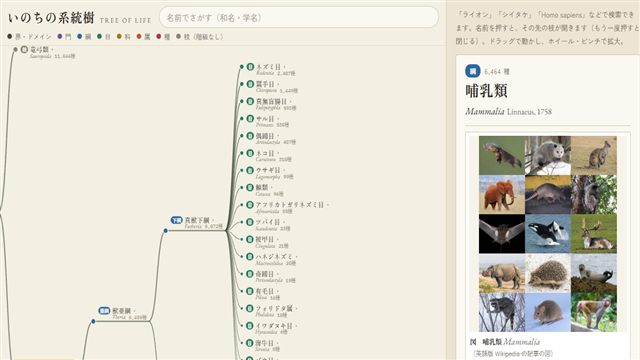
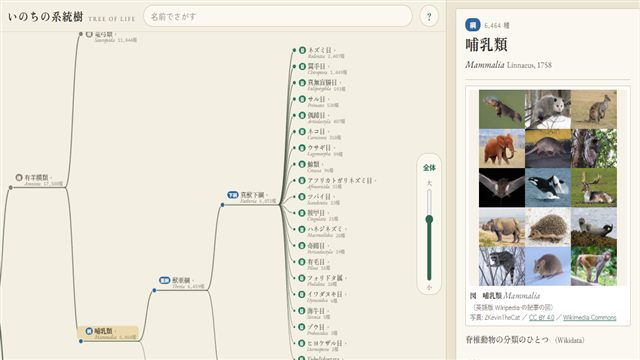
v005-compact いのちの系統樹: ヘッダーを細く（色の凡例と使い方は？のポップアップへ、スマホのタイトルはごく小さく）、閉じるボタンを外し大きさはたてのつまみに、全体は開いている枝がぜんぶ入るように、PC のはじめの画面を真ん中に

diff --git a/tree-of-life/css/style.css b/tree-of-life/css/style.css
@@ -9,10 +9,16 @@ i.sci,.sci i{font-family:var(--f-sci);font-style:italic}
 
 /* スマホ: 上（見出し・検索・凡例・樹形図）を固定し、詳細と説明は下でスクロール */
 #pin{position:sticky;top:0;z-index:2;background:var(--paper);display:flex;flex-direction:column;height:62vh;height:62svh;border-bottom:1px solid var(--rule)}
-#top{display:flex;align-items:center;gap:10px 14px;padding:10px 14px 6px;flex-wrap:wrap}
-#top h1{font-family:var(--f-mincho);font-weight:700;font-size:21px;margin:0;white-space:nowrap;letter-spacing:.08em;display:flex;align-items:baseline;gap:8px}
-#top h1 small{font-family:var(--f-sci);font-weight:400;font-size:12px;letter-spacing:.2em;color:var(--sub)}
-#search{position:relative;flex:1;min-width:200px}
+#top{position:relative;display:flex;align-items:center;gap:8px;padding:6px 10px}
+/* スマホ: タイトルはごく小さく（1行の左はしに2段で） */
+#top h1{font-family:var(--f-mincho);font-weight:700;font-size:11px;line-height:1.25;margin:0;white-space:nowrap;letter-spacing:.06em;display:flex;flex-direction:column}
+#top h1 small{font-family:var(--f-sci);font-weight:400;font-size:8.5px;letter-spacing:.16em;color:var(--sub)}
+#search{position:relative;flex:1;min-width:0}
+#helpbtn{flex:none;width:38px;height:38px;border-radius:50%;border:1px solid var(--rule);background:var(--card);color:var(--acc);font-family:var(--f-mincho);font-weight:700;font-size:17px;cursor:pointer}
+#helpbtn[aria-expanded="true"],#helpbtn:hover{border-color:var(--acc);background:#eef3ec}
+#help{position:absolute;right:10px;top:50px;z-index:6;width:min(340px,calc(100vw - 20px));background:var(--card);border:1px solid var(--rule);border-radius:10px;padding:10px 14px 12px;box-shadow:0 10px 28px rgba(60,48,20,.2);font-size:13.5px;line-height:1.7}
+#help p{margin:0 0 6px}
+#help .lg-title{margin:10px 0 4px;color:var(--sub);font-size:12px;border-top:1px solid var(--rule2);padding-top:8px}
 #q{width:100%;height:38px;border-radius:19px;border:1px solid var(--rule);background:var(--card);color:var(--ink);padding:0 14px;font:inherit;font-size:15px}
 #q::placeholder{color:var(--faint)}
 #q:focus{outline:2px solid var(--acc);outline-offset:0}
@@ -24,17 +30,19 @@ i.sci,.sci i{font-family:var(--f-sci);font-style:italic}
 #results i,#legend i,.chip i{display:inline-block;width:9px;height:9px;border-radius:50%;margin-right:6px;vertical-align:1px}
 #results span{color:var(--sub);font-size:12px}
 #results .empty{padding:10px 12px;color:var(--sub);font-size:13px}
-#legend{display:flex;gap:4px 12px;padding:0 14px 7px;font-size:12px;color:var(--sub);overflow-x:auto;white-space:nowrap;scrollbar-width:none}
+#legend{display:flex;flex-wrap:wrap;gap:4px 12px;font-size:12px;color:var(--sub)}
 #stage{flex:1;position:relative;min-height:0;background:var(--paper);border-top:1px solid var(--rule2)}   /* 無地（名前の下じきと同じ紙の色） */
 #cv{position:absolute;inset:0;width:100%;height:100%;display:block;touch-action:none;cursor:grab}
-#zoom{position:absolute;right:10px;bottom:10px;display:flex;gap:4px}
-#zoom button{min-width:38px;height:38px;border-radius:19px;border:1px solid var(--rule);background:rgba(251,248,241,.94);color:var(--ink);font-size:14px;cursor:pointer;padding:0 10px}
-#zoom button:hover{border-color:var(--acc);color:var(--acc)}
+/* 大きさ: 右はしに、たてのつまみ（上が大きい）と「全体」 */
+#zoom{position:absolute;right:8px;top:50%;transform:translateY(-50%);display:flex;flex-direction:column;align-items:center;gap:2px;background:rgba(251,248,241,.9);border:1px solid var(--rule);border-radius:20px;padding:6px 4px}
+#zoom button{width:40px;height:36px;border-radius:18px;border:0;background:none;color:var(--acc);font-size:12.5px;font-weight:700;cursor:pointer;padding:0}
+#zoom button:hover{background:#eef3ec}
+#zoom .zl{font-family:var(--f-mincho);font-size:11px;color:var(--sub);line-height:1.2}
+#zs{writing-mode:vertical-lr;direction:rtl;width:28px;height:min(160px,28vh);margin:2px 0;accent-color:var(--acc);cursor:pointer}
 #status{position:absolute;left:10px;bottom:10px;margin:0;font-size:12px;color:#9a5b12;max-width:60%}
 
 /* 詳細: 図鑑の1ページ */
 #side{padding:14px 18px 32px;line-height:1.75;background:var(--paper2)}
-#hint{color:var(--sub);font-size:13px;margin:0 0 12px}
 #detail{background:var(--card);border:1px solid var(--rule);border-radius:4px;padding:16px 18px 14px;box-shadow:0 1px 0 var(--rule2),0 6px 18px rgba(80,60,20,.06)}
 #detail .d-rank{display:flex;align-items:center;gap:8px;font-size:12px;color:var(--sub);letter-spacing:.1em}
 #detail .tag{color:#fbf8f1;font-weight:700;font-size:12px;padding:1px 9px;border-radius:10px;letter-spacing:0}
@@ -81,5 +89,8 @@ a{color:var(--acc)}
   #app{display:grid;grid-template-columns:1fr 400px;height:100vh}
   #pin{position:relative;height:100vh;border-bottom:0;border-right:1px solid var(--rule)}
   #side{overflow:auto;height:100vh}
-  #top h1{font-size:23px}
+  #top{padding:8px 14px;gap:14px}
+  #top h1{font-size:20px;flex-direction:row;align-items:baseline;gap:8px;letter-spacing:.08em}
+  #top h1 small{font-size:11px;letter-spacing:.2em}
+  #help{top:56px}
 }

diff --git a/tree-of-life/js/main.js b/tree-of-life/js/main.js
@@ -121,17 +121,23 @@ cv.addEventListener('wheel', e => {
   V.zoomAt(e.offsetX, e.offsetY, Math.exp(-dy * (e.ctrlKey ? 0.01 : 0.0015)));
 }, { passive: false });
 
-// ---------- ボタン ----------
+// ---------- 全体ボタンと、大きさのつまみ（たて。上が大きい） ----------
 const [W0, H0] = [() => V.size[0], () => V.size[1]];
-document.getElementById('zin').onclick = () => V.zoomAt(W0() / 2, H0() / 2, 1.3);
-document.getElementById('zout').onclick = () => V.zoomAt(W0() / 2, H0() / 2, 1 / 1.3);
-document.getElementById('zfit').onclick = () => V.fit();
-document.getElementById('zclose').onclick = () => {
-  for (const n of T.nodes) n.open = false;
-  T.root.open = true; V.selected = null; V.fit();
-};
+document.getElementById('zfit').onclick = () => { touched = true; reachId++; V.fit(); };
+const zs = document.getElementById('zs');
+const KMIN = V.KMIN, KMAX = V.KMAX;
+const k2v = k => Math.round(1000 * Math.log(k / KMIN) / Math.log(KMAX / KMIN));
+const v2k = v => KMIN * Math.pow(KMAX / KMIN, v / 1000);
+zs.addEventListener('input', () => { touched = true; V.zoomAt(W0() / 2, H0() / 2, v2k(+zs.value) / V.cam.k); });
+V.onDraw = () => { if (document.activeElement !== zs) zs.value = k2v(V.cam.k); };   // ホイール・ピンチ・全体で変わったら、つまみも動かす
 
-// 大きさが変わったら描きなおす。まだだれも動かしていなければ全体が入るように（最初は CSS が効く前で大きさ 0 のことがある）
+// ---------- 使い方（？）のポップアップ ----------
+const helpBtn = document.getElementById('helpbtn'), help = document.getElementById('help');
+helpBtn.onclick = e => { e.stopPropagation(); help.hidden = !help.hidden; helpBtn.setAttribute('aria-expanded', String(!help.hidden)); };
+document.addEventListener('click', e => { if (!help.hidden && !e.target.closest('#help')) { help.hidden = true; helpBtn.setAttribute('aria-expanded', 'false'); } });
+document.addEventListener('keydown', e => { if (e.key === 'Escape' && !help.hidden) helpBtn.click(); });
+
+// 大きさが変わったら描きなおす。まだだれもさわっていなければ、はじめの場所に置きなおす（最初は CSS が効く前で大きさ 0 のことがある）
 cv.addEventListener('pointerdown', () => touched = true);
 cv.addEventListener('wheel', () => touched = true);
 new ResizeObserver(() => { V.resize(); if (!touched && replace) replace(); }).observe(cv);
@@ -143,11 +149,17 @@ async function startView() {
   if (!mam) { T.root.open = true; V.fit(); return; }
   T.ancestors(mam).forEach(a => a.open = true);
   V.selected = mam; UI.show(mam);
-  const place = (n, ny = n) => {   // n を左の少し内側、ny をたて真ん中に（だれもさわっていない間は、大きさが変わってもここへ）
-    replace = () => place(n, ny);
+  // 哺乳類から下の、いま見えている枝の囲み。入るなら画面の真ん中に、入らなければ narrow を左はしに
+  const place = narrow => {
+    replace = () => place(narrow);
     V.resize(); V.layout(); V.settle();
-    const [W, H] = V.size, k = W < 600 ? 0.78 : 0.88;
-    V.cam.k = k; V.cam.x = Math.min(24, W * 0.03) + 6 - n.x * k; V.cam.y = H / 2 - ny.y * k;
+    const [W, H] = V.size;
+    const b = V.bbox(V.vis.filter(n => n === mam || T.ancestors(n).includes(mam)));
+    const k = W < 600 ? 0.78 : Math.max(0.72, Math.min(0.92, (H - 40) / (b.bottom - b.top)));
+    V.cam.k = k;
+    const AW = W - 56;   // 右のつまみの分をのぞいた幅
+    V.cam.x = (b.right - b.left) * k <= AW - 24 ? (AW - (b.right - b.left) * k) / 2 - b.left * k : 12 - narrow.x * k;
+    V.cam.y = H / 2 - (b.top + b.bottom) / 2 * k;
     V.draw();
   };
   place(mam);
@@ -162,11 +174,7 @@ async function startView() {
     await T.open(n);
   } catch (e) { warn(); }
   if (touched) return;   // 読みこみの間にさわっていたら、そのまま
-  // 広い画面は哺乳類から目まで入れる。せまい画面は目のならびが見えるところから
-  V.layout();
-  const [W] = V.size;
-  const fits = (n.jx + 38 + 150 - mam.x) * (W < 600 ? 0.78 : 0.88) < W - 30;
-  place(fits ? mam : n, n);
+  place(n);
 }
 V.resize();
 startView();

diff --git a/tree-of-life/js/view.js b/tree-of-life/js/view.js
@@ -10,6 +10,7 @@ const V = (() => {
   let vis = [];               // 見えているふし（配置ずみ）
   let leaving = [];           // 閉じたときに親へ吸いこまれていくふし（0.3秒ほどで消える）
   let selected = null, hover = null;
+  let onDrawFn = null;        // 描いたあとに呼ぶ（大きさのつまみを合わせる）
   let W = 0, H = 0;
   const INK = '#2c2a24', SUB = '#7a7262', FAINT = '#9b927e';
   const FONT = "14px 'Zen Old Mincho','Yu Mincho','Hiragino Mincho ProN',serif";
@@ -230,6 +231,7 @@ const V = (() => {
     }
     g.globalAlpha = 1;
     g.restore();
+    if (onDrawFn) onDrawFn();
   }
   function roundRect(x, y, w, h, r) { g.beginPath(); g.moveTo(x + r, y); g.arcTo(x + w, y, x + w, y + h, r); g.arcTo(x + w, y + h, x, y + h, r); g.arcTo(x, y + h, x, y, r); g.arcTo(x, y, x + w, y, r); g.closePath(); }
 
@@ -237,7 +239,7 @@ const V = (() => {
   function hit(px, py) {
     const wx = (px - cam.x) / cam.k, wy = (py - cam.y) / cam.k;
     let best = null, bd = 1e9;
-    const pad = Math.max(0, 8 / cam.k - 8);   // 小さく見えているときは当たりを広く
+    const pad = Math.min(30, Math.max(0, 8 / cam.k - 8));   // 小さく見えているときは当たりを広く
     for (const n of vis) {
       if (!T.named(n)) continue;
       const ly = labelY(n, n.y);
@@ -251,19 +253,30 @@ const V = (() => {
   }
 
   // 拡大・移動
+  const KMIN = 0.05, KMAX = 3;
   function zoomAt(px, py, f) {
-    const k = Math.max(0.08, Math.min(3, cam.k * f));
+    const k = Math.max(KMIN, Math.min(KMAX, cam.k * f));
     cam.x = px - (px - cam.x) * (k / cam.k); cam.y = py - (py - cam.y) * (k / cam.k); cam.k = k;
     draw();
   }
-  // 木全体が入るように
+  // ふしの囲み（名前の2段もふくむ。決めた位置で）
+  function bbox(list) {
+    const b = { left: Infinity, right: -Infinity, top: Infinity, bottom: -Infinity };
+    for (const n of list) {
+      const ly = labelY(n, n.y);
+      b.left = Math.min(b.left, n.x - 10); b.right = Math.max(b.right, n.x + (n.lw || 0) + 24);
+      b.top = Math.min(b.top, ly - 14); b.bottom = Math.max(b.bottom, Math.max(n.y, ly + LINE2) + 12);
+    }
+    return b;
+  }
+  // 全体: いま開いている枝がぜんぶ入るように、真ん中に（文字が読めないほど小さくなっても、形を見わたすため）
   function fit() {
     measure();
-    const rows = layout();
-    let maxX = 0; for (const n of vis) maxX = Math.max(maxX, n.x + (n.lw || 0) + 30);
-    const k = Math.min(1.2, (W - 30) / Math.max(1, maxX), (H - 30) / Math.max(1, rows * ROW));
-    cam.k = Math.max(0.6, k);   // 小さすぎて読めないほどには縮めない（入りきらないぶんはドラッグで）
-    cam.x = 15; cam.y = Math.max(24, (H - (rows - 1) * ROW * cam.k) / 2);
+    layout();
+    const b = bbox(vis), bw = b.right - b.left, bh = b.bottom - b.top;
+    const AW = W - 24 - 56;   // 右はしの大きさのつまみ（約 56px）にかからないように
+    cam.k = Math.max(KMIN, Math.min(1.2, AW / bw, (H - 24) / bh));
+    cam.x = 12 + (AW - bw * cam.k) / 2 - b.left * cam.k; cam.y = (H - bh * cam.k) / 2 - b.top * cam.k;
     draw();
   }
   function focus(n) {
@@ -278,7 +291,7 @@ const V = (() => {
 
   // デバッグ用: 描画が止まっている間（ペインがかくれている）も、アニメを1コマずつ進める
   const tick = (dt = 1 / 60) => { const m = step(dt); draw(); return { moving: m, leaving: leaving.length }; };
-  return { cv, cam, layout, draw, resize, hit, zoomAt, fit, focus, screenOf, settle, shift, pop, labelY, tick,
+  return { KMIN, KMAX, bbox, set onDraw(f) { onDrawFn = f; }, cv, cam, layout, draw, resize, hit, zoomAt, fit, focus, screenOf, settle, shift, pop, labelY, tick,
     get vis() { return vis; }, get selected() { return selected; }, set selected(n) { selected = n; },
     set hover(n) { hover = n; }, get size() { return [W, H]; } };
 })();

diff --git a/tree-of-life/index.html b/tree-of-life/index.html
@@ -12,22 +12,31 @@
     <header id="top">
       <h1>いのちの系統樹<small>TREE OF LIFE</small></h1>
       <div id="search">
-        <input id="q" type="search" placeholder="名前でさがす（和名・学名）" autocomplete="off" enterkeyhint="search">
+        <input id="q" type="search" placeholder="名前でさがす" autocomplete="off" enterkeyhint="search">
         <ul id="results"></ul>
       </div>
+      <button id="helpbtn" aria-expanded="false" aria-controls="help" title="使い方">？</button>
+      <div id="help" hidden>
+        <p>名前を押すと、その先の枝が開きます。もう一度押すと閉じます。</p>
+        <p>ドラッグで動かし、右のつまみ・ホイール・ピンチで大きさを変えます。「全体」で、いま開いている枝がぜんぶ入ります。</p>
+        <p>「ライオン」「シイタケ」「Homo sapiens」のように、和名でも学名でもさがせます。</p>
+        <p class="lg-title">名札の色は分類の段</p>
+        <div id="legend"></div>
+      </div>
     </header>
-    <div id="legend" aria-label="色と段"></div>
     <main id="stage">
       <canvas id="cv" aria-label="生きものの系統樹。名前を押すと開く"></canvas>
       <div id="zoom">
-        <button id="zin" title="拡大">＋</button><button id="zout" title="縮小">−</button><button id="zfit" title="全体">全体</button><button id="zclose" title="すべて閉じる">閉じる</button>
+        <button id="zfit" title="開いている枝がぜんぶ入るように">全体</button>
+        <span class="zl" aria-hidden="true">大</span>
+        <input id="zs" type="range" min="0" max="1000" value="500" aria-label="大きさ">
+        <span class="zl" aria-hidden="true">小</span>
       </div>
       <p id="status" role="status"></p>
     </main>
   </div>
 
   <aside id="side">
-    <p id="hint">「ライオン」「シイタケ」「Homo sapiens」などで検索できます。名前を押すと、その先の枝が開きます（もう一度押すと閉じる）。ドラッグで動かし、ホイール・ピンチで拡大。</p>
     <section id="detail"></section>
 
     <details id="about">

diff --git a/tree-of-life/launcher.html b/tree-of-life/launcher.html
@@ -41,7 +41,7 @@ td a{color:var(--ink)}
   </section>
   <section>
     <h2>すべてのバックアップ</h2>
-    <table><tr><td>v001-start</td><td><a href="versions/v001-start/index.html">雛形（new-app.ps1）</a></td><td>2026-10-15</td></tr><tr><td>v002-stage-a</td><td>段階A: 界〜綱の樹形図（COL × Open Tree）、綱より下は COL から、和名・検索・詳細（Git）</td><td>2026-10-15</td></tr><tr><td>v003-zukan</td><td>図鑑風の見た目、やわらかい枝と開く・閉じるアニメ、詳細に図（Commons）（Git）</td><td>2026-10-15</td></tr><tr><td>v004-two-line</td><td>名前を2段（和名・学名）、閉じると子は親の名前の裏へ、はじめは哺乳類の目から（Git）</td><td>2026-10-15</td></tr></table>
+    <table><tr><td>v001-start</td><td><a href="versions/v001-start/index.html">雛形（new-app.ps1）</a></td><td>2026-10-15</td></tr><tr><td>v002-stage-a</td><td>段階A: 界〜綱の樹形図（COL × Open Tree）、綱より下は COL から、和名・検索・詳細（Git）</td><td>2026-10-15</td></tr><tr><td>v003-zukan</td><td>図鑑風の見た目、やわらかい枝と開く・閉じるアニメ、詳細に図（Commons）（Git）</td><td>2026-10-15</td></tr><tr><td>v004-two-line</td><td>名前を2段（和名・学名）、閉じると子は親の名前の裏へ、はじめは哺乳類の目から（Git）</td><td>2026-10-15</td></tr><tr><td>v005-compact</td><td>ヘッダーを細く・使い方は？に・大きさはたてのつまみ・全体ボタンを直す・はじめの画面を真ん中に（Git）</td><td>2026-10-15</td></tr></table>
   </section>
 </main>
 </body>

diff --git a/_dev/tools/thumb.html b/_dev/tools/thumb.html
@@ -20,7 +20,7 @@ const click = (w, sel) => { const e = w.document.querySelector(sel); if (e) e.cl
 // アプリごとの準備（w = アプリの window）
 const SETUP = {
   // いのちの系統樹（はじめの画面のまま）
-  'tree-of-life': async w => { await wait(5000); const h = w.__trofli; h.V.resize(); h.V.settle(); },   // はじめの画面（哺乳類の目のならび）
+  'tree-of-life': async w => { await wait(9000); const h = w.__trofli; h.V.resize(); h.V.settle(); },   // はじめの画面（哺乳類の目のならび）
   // 雑草がふえるまで（はじめのメニューを閉じ、ふつうの庭の2年目の8月: 穂がそろい、土の中にタネ・根）
   'weed-growth': async w => { await wait(800); const h = w.__wegr; w.startScenario('garden'); h.set('play', false); h.run(365 + 160, 1); h.draw(); await wait(300); },
   // ほこりが積もるまで（2日たって、ふとんをはたいた直後: 舞い上がった皮ふと繊維、すみ・家具の上に積もった層）

diff --git a/tree-of-life/DEVNOTES.md b/tree-of-life/DEVNOTES.md
@@ -1,7 +1,7 @@
 # いのちの系統樹 開発メモ
 
 ## 別セッションで続けるとき（まずここ）
-- いまの状態: v004-two-line（名前2段・閉じると親の名前の裏へ・はじめは哺乳類の目から）。保管庫（archive.html）に掲載。入口には載せない（RULES 8.1）。日本語だけ。
+- いまの状態: v005-compact（ヘッダーを細く・使い方は？のポップアップ・大きさはたてのつまみ・はじめの画面を真ん中に）。保管庫（archive.html）に掲載。入口には載せない（RULES 8.1）。日本語だけ。
 - 次にやること: ユーザーに見てもらって感想を聞く → PLAN.md の「段階B以降」から選ぶ（年代の目盛り・写真・綱より下も系統の形に、など）。
 - 読む順: PLAN.md（「調べたこと」に情報量と利用条件）→ このファイルの「ファイル構成」→ 関係するファイルだけ。
 - 動かし方: サーバー apps（.claude/launch.json）で http://localhost:8765/tree-of-life/ 。デバッグ用の窓口 `window.__trofli`（`find(学名か和名)`・`press(学名)`・`reveal(COL id)`・`T`・`V`・`UI`）、エラーは `window.__trofliErr`。
@@ -12,14 +12,14 @@
 ## ファイル構成
 | ファイル | 中身 | 主な関数・変数 |
 |---|---|---|
-| index.html | 画面の骨組み・このアプリについて（出どころ・通信） | `#pin`（上に固定: 検索・凡例・樹形図）、`#side`（詳細・説明） |
+| index.html | 画面の骨組み・このアプリについて（出どころ・通信） | `#pin`（上に固定: 小さなタイトル・検索・？・樹形図・つまみ）、`#help`（使い方と色の凡例のポップアップ）、`#side`（詳細・説明） |
 | css/style.css | 図鑑風の見た目（紙・明朝・図・分類の表）。900px 未満は上を固定してスクロール、以上は左右 | |
 | data/backbone.js | 界〜綱の樹形図（作った道具の出力。手で直さない） | `TOL_META`、`TOL_ROWS`（1行 = [親, 学名, 和名, 階級, COL id, 種の数, Wikidata id, しるし]） |
 | js/api.js | 外のデータ（COL・Wikidata・Commons・英語版 Wikipedia の代表の図）。同じ URL は2度読まない、Wikidata SPARQL は1本ずつ | `API.children`・`taxon`・`classification`・`suggest`・`exact`・`jaNames`・`searchJa`・`wdInfo`・`leadImage`・`images`（条件で選ぶ） |
 | js/tree.js | 木のデータ・階級の名前と色・その場で読む・検索の場所まで開く | `RANK_JA`・`RANK_GROUP`・`GROUPS`、`T.nodes`・`open`・`loadKids`・`reveal`・`localSearch` |
 | js/view.js | Canvas の配置と描画（やわらかい曲線の枝・出てくる／吸いこまれるアニメ）・当たり判定・拡大 | `V.layout`・`draw`・`step`・`leaving`・`shift`・`pop`・`settle`・`tick`・`hit`・`fit`・`focus`・`cam` |
 | js/ui.js | 詳細の欄（図鑑の1ページ: 図・説明・分類の表・しらべ・メモ）・検索の欄・凡例 | `UI.show`・`plate`・`MAJOR`・`NO_IMAGE`・`refresh`・`onPick` |
-| js/main.js | 押す・ドラッグ・ピンチ・ボタン、はじめの表示、デバッグ窓口 | `press`・`reach`・`window.__trofli` |
+| js/main.js | 押す・ドラッグ・ピンチ・全体ボタン・大きさのつまみ（`zs`、対数）・？のポップアップ、はじめの表示、デバッグ窓口 | `press`・`reach`・`startView`・`replace`・`window.__trofli` |
 | tools/build-backbone.mjs | data/backbone.js を作る道具（node） | |
 
 読み込み順: data/backbone.js → api.js → tree.js → view.js → ui.js → main.js。
@@ -35,7 +35,9 @@
 - **描き方**: 葉を上から1行（34px）、親は子の真ん中。名前は2段（1段め: 札＋和名、2段め: 小さめの学名と種の数。和名がなければ1段めが学名）で、幅は2段のうち長いほう。名前のあるふしは名前の幅だけ右へ（開いていれば2段ごと枝の上）。名前のないふしは小さな点で、いつも開いている。点の大きさは種の数の log。色は段（界・門・綱・目・科・属・種・枝）。
 - **枝とアニメ**（2026-10-15 v003）: 枝は分かれ目から子へのベジェ曲線、太さは種の数の log（`branchW`）。見た目の位置 ax/ay/ajx は決めた位置 x/y/jx へ指数で近づく（`step`、時定数 約0.09秒）。新しく見えたふしは親の分かれ目から出てきて、うすい所から濃くなる。閉じると子は `leaving` に入り、0.3秒で親へ加速しながら吸いこまれ（t³）、着いたら親の点が小さく弾む（`pulse`）。開いたときも小さく弾む（`pop`）。押した名前は動かさず、まわりは今の見た目の場所から新しい場所へすべる（main.js の `stay` が `V.shift` とカメラを同じだけずらす）。
 - **名前の下じき**（v004）: えらんだ・指している・子を吸いこみ中のふしは、名前の下に不透明の下じき（`SEL_BG`・`HOV_BG`・`PAPER`）。吸いこまれる子と枝はふしより先に描くので、親の名前の裏へまわる。背景は無地（下じきの紙の色と合わせるため、CSS のぼかしはやめた）。
-- **はじめの画面**（v004）: `startView`（main.js）。哺乳類の祖先を開き、哺乳類 → 獣亜綱 → 真獣下綱を COL から開いて目をならべる。広い画面は哺乳類を左に、せまい画面は真獣下綱を左に、たては目のならびの真ん中。さわるまでは大きさが変わってもここへ置きなおす（`replace`）。詳細は哺乳類（写真つき）。
+- **はじめの画面**（v004・v005）: `startView`（main.js）。哺乳類の祖先を開き、哺乳類 → 獣亜綱 → 真獣下綱を COL から開いて目をならべる。哺乳類から下の囲み（`V.bbox`）が入るなら真ん中に（右のつまみの分をのぞく）、入らなければ（スマホ）真獣下綱を左はしに。たては囲みの真ん中。
+- **全体**（v005）: いま開いている枝がぜんぶ入る大きさ（読めないほど小さくてもよい。形を見わたすため。最小 0.05 倍）で真ん中に。
+- **大きさのつまみ**: たての range（`writing-mode: vertical-lr; direction: rtl` で上が大きい）。0.05〜3 倍を対数で。ホイール・ピンチ・全体で変わったら描くたびにつまみも合わせる（`V.onDraw`）。さわるまでは大きさが変わってもここへ置きなおす（`replace`）。詳細は哺乳類（写真つき）。
 - **図**（2026-10-15 v003）: Wikidata の P18（写真）→ なければ英語版 Wikipedia の記事の代表の図（`pageimages`、pilicense=free）→ Commons の `imageinfo` で作者・条件を読み、CC0・パブリックドメイン・CC BY・CC BY-SA だけ出す（NC・ND・GFDL だけ・不明は出さない）。人とチンパンジーなどの写真は出さない（`NO_IMAGE`）、ファイル名・説明・カテゴリに裸・性器・交尾・死体などの語があるものも出さない（RULES 9）。作者の HTML は DOMParser で文字だけにする。
 - 押す: 選ぶ＋閉じていれば開く・選んでいて開いていれば閉じる。押した名前が画面の同じ場所に残るように cam を合わせ、子が右の外なら左へ寄せる（`reach`）。
 
@@ -55,10 +57,12 @@
 5. アニメ: `press('Animalia')` → `V.settle()` → もう一度 `press('Animalia')` して `V.tick()` をくり返す: `leaving` が 0.3秒ほどで 0 になり、親の `pulse` が立つ。`__trofliErr` が空。
 6. 図: `press('Mammalia')` で図（作者・条件・Commons へのリンク）。`Homo sapiens` では図を出さない。
 7. 検索「ライオン」→ 選ぶ → ヒョウ属の下まで開いて、詳細に道すじ・Wikipedia のリンク（1組だけ）。学名「Panthera leo」でも。「シイタケ」でも。
-8. 幅 375px: 上に樹形図が固定、詳細は下でスクロール、横にはみ出さない（`scrollWidth` 375）。
+8. 「全体」で開いている枝がぜんぶ見える（何もない所にならない）。つまみを動かすと大きさが変わり、ホイールで変えるとつまみも動く。？で使い方と色の凡例が出て、外を押すと消える。
+9. 幅 375px: 上に樹形図が固定、詳細は下でスクロール、横にはみ出さない（`scrollWidth` 375）。
 
 ## 状態
 - 2026-10-15 v001-start: new-app.ps1 で雛形を作った（保管庫にカード）。
 - 2026-10-15 v002-stage-a: 情報量と利用条件を調べて PLAN.md に。界〜綱の樹形図（COL26.9 × Open Tree 16.1、645 ふし・38KB）、綱より下は COL からその場で、和名は Wikidata、検索（和名・学名）、詳細の欄、スマホ対応。
 - 2026-10-15 v003-zukan: ユーザーの声で、図鑑風の見た目（生成りの紙・明朝・分類の表）、やわらかい曲線の枝（太さ＝種の数）、開くと出てくる・閉じると親へ吸いこまれるアニメ（くどくしない）、詳細に図（Wikimedia Commons。条件の合うものだけ、作者・条件つき）。検索で別名・亜属から受け入れられた名前へ。
 - 2026-10-15 v004-two-line: ユーザーの声で、名前を2段に（横に長くならないように。学名は小さめ）、閉じるとき子は親の名前の裏へ（不透明の下じき）、はじめは哺乳類の目のならびから。
+- 2026-10-15 v005-compact: ユーザーの声で、ヘッダーの色の凡例をやめ（？のポップアップの中へ）、使い方も？へ、スマホのタイトルをごく小さく、閉じるボタンを外し、＋−をたてのつまみに、全体は開いている枝がぜんぶ入るように（スマホで何もない所が出ていた）、PC のはじめの画面を真ん中に。
